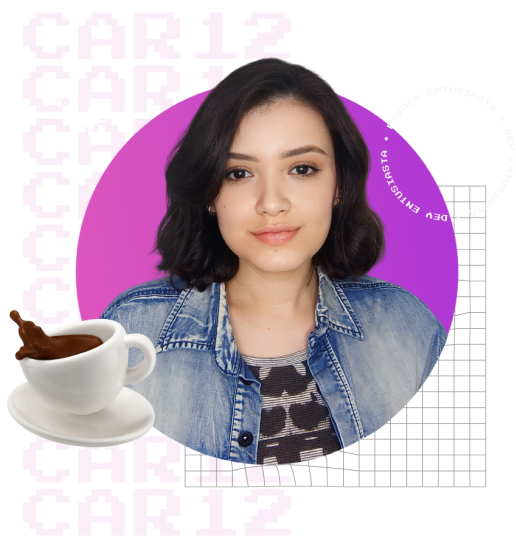
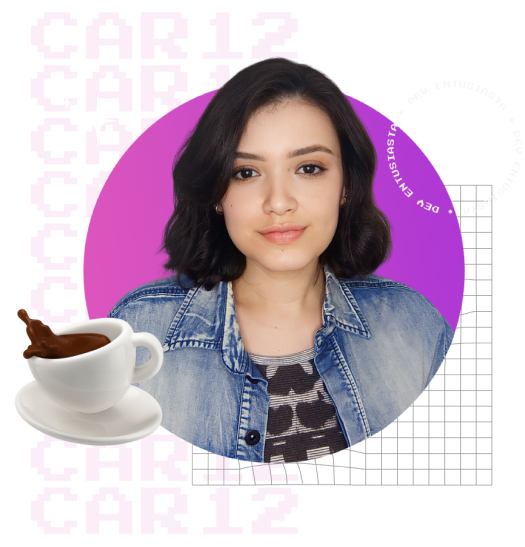
add hero section

diff --git a/index.css b/index.css
@@ -1,0 +1,135 @@
+/*GERAL*/
+* {
+    margin: 0;
+    padding: 0;
+    box-sizing: border-box;
+    font-family: 'Source Code Pro', sans-serif;
+}
+
+:root {
+    --color-primary: #DE55BC;
+    --color-secondary: #B037D4;
+    --color-white: #fff;
+    --color-grey: #aaaaaa;
+    --gradiente: linear-gradient(135deg,#DE55BC,#B037D4);
+}
+
+body {
+    background-color: #1A1A1A;
+    height: 100vh;
+}
+
+.interface {
+    max-width: 1280px;
+    margin: 0 auto;
+}
+
+.flex {
+    display: flex;
+}
+
+/* HEADER */
+header {
+    padding: 50px 4%;
+}
+
+header > .interface {
+    display: flex;
+    align-content: center;
+    justify-content: space-between;
+}
+
+header a {
+    color: var(--color-grey);
+    text-decoration: none;
+    font-size: 20px;
+    font-weight: 500;
+    display: inline-block;
+}
+
+header a:hover {
+    color: var(--color-primary);
+    transform: scale(1.07);
+    transition: .2s;
+}
+
+header nav ul {
+    list-style-type: none;
+}
+
+header nav li {
+    display: inline-block;
+    padding: 10px 0 0 90px;
+}
+
+header .btn-contato button {
+    font-size: 22px;
+    font-weight: 700;
+    background-color: #1A1A1A;
+    color: var(--color-primary);
+    text-align: center;
+    text-transform: uppercase;     
+    border-radius: 64px;
+    border: 2px solid;
+    padding: 10px 40px;  
+    cursor: pointer;
+}
+
+header .btn-contato button:hover {
+    background-image: var(--gradiente);
+    color: #1A1A1A;
+    border-color: #1A1A1A;  
+}
+
+header .logo {
+margin-top: 5px;
+}
+
+/* HERO */
+section.hero-section {
+    padding: 30px 2%;
+}
+
+section.hero-section .flex {
+    align-items: center;
+    justify-content: center; 
+    gap: 90px;   
+}
+
+.hero-section h1 {
+    color: var(--color-primary);
+    font-family: 'Press Start 2P';
+    font-size: 48px;
+    line-height: 110%;
+}
+
+.hero-section .txt-hero p {
+    color: var(--color-white);
+    font-size: 23px;
+    font-weight: 500;
+    line-height: normal;
+    margin: 40px 0;
+}
+
+section .btn-contato button {
+    font-size: 22px;
+    font-weight: 700;
+    background-image: var(--gradiente);
+    color: #1A1A1A;
+    text-align: center;
+    text-transform: uppercase;     
+    border-radius: 64px;
+    border: 2px solid;
+    border-color: #1A1A1A;
+    padding: 10px 40px;  
+    cursor: pointer;
+    display: inline-block;
+}
+
+section .btn-contato button:hover {
+    transform: scale(1.07);
+    transition: .2s;  
+}
+
+
+

diff --git a/index.html b/index.html
@@ -1,0 +1,63 @@
+<!DOCTYPE html>
+<html lang="en">
+<head>
+    <meta charset="UTF-8">
+    <meta name="viewport" content="width=device-width, initial-scale=1.0">
+    <!--GOOGLE FONTS-->
+    <link rel="preconnect" href="https://fonts.googleapis.com">
+<link rel="preconnect" href="https://fonts.gstatic.com" crossorigin>
+<link href="https://fonts.googleapis.com/css2?family=Press+Start+2P&family=Source+Code+Pro:wght@400;500;700&display=swap" rel="stylesheet">
+    <!--FIM GOOGLE FONTS-->
+    <link rel="stylesheet" href="index.css">
+    <title>Portfolio Gabriela Cardoso</title>
+</head>
+<body>
+
+    <header>                 
+        <div class="interface">
+             <div class="logo">
+                 <a href="#">  
+                     <img src="img/logo.svg" alt="logo gabicar12">
+                 </a>
+             </div><!--logo-->
+ 
+             <nav class="menu-desktop">
+                 <ul>
+                     <li><a href="#">Início</a></li>
+                     <li><a href="#">Sobre</a></li>
+                     <li><a href="#">Projetos</a></li>                    
+                 </ul>
+             </nav>
+ 
+             <div class="btn-contato">
+                 <a href="#">
+                     <button>contato</button>
+                 </a>
+             </div><!--btn-contato-->        
+         </div><!--interface-->   
+     </header>
+
+     <main>
+        <section class="hero-section">
+            <div class="interface">
+                <div class="flex">
+                    <div class="txt-hero">
+                        <h1>Hello World!</h1>
+                        <p>Lorem ipsum dolor sit amet, consectetur adipiscing elit, sed eiusmod tempor incididunt ut labore et dolore magna aliqua.</p>
+                        <div class="btn-contato">
+                            <a href="#">
+                                <button>Entre em contato</button>
+                            </a>
+                        </div>
+                    </div><!--txt-hero-->
+
+                    <div class="img-hero">
+                        <img src="img/hero-img.png" alt="Composição com foto da Gabriela Cardoso">
+                    </div><!--img-hero-->
+                </div>      
+            </div><!--interface-->   
+        </section><!--hero-section-->
+    </main>
+    
+</body>
+</html>
